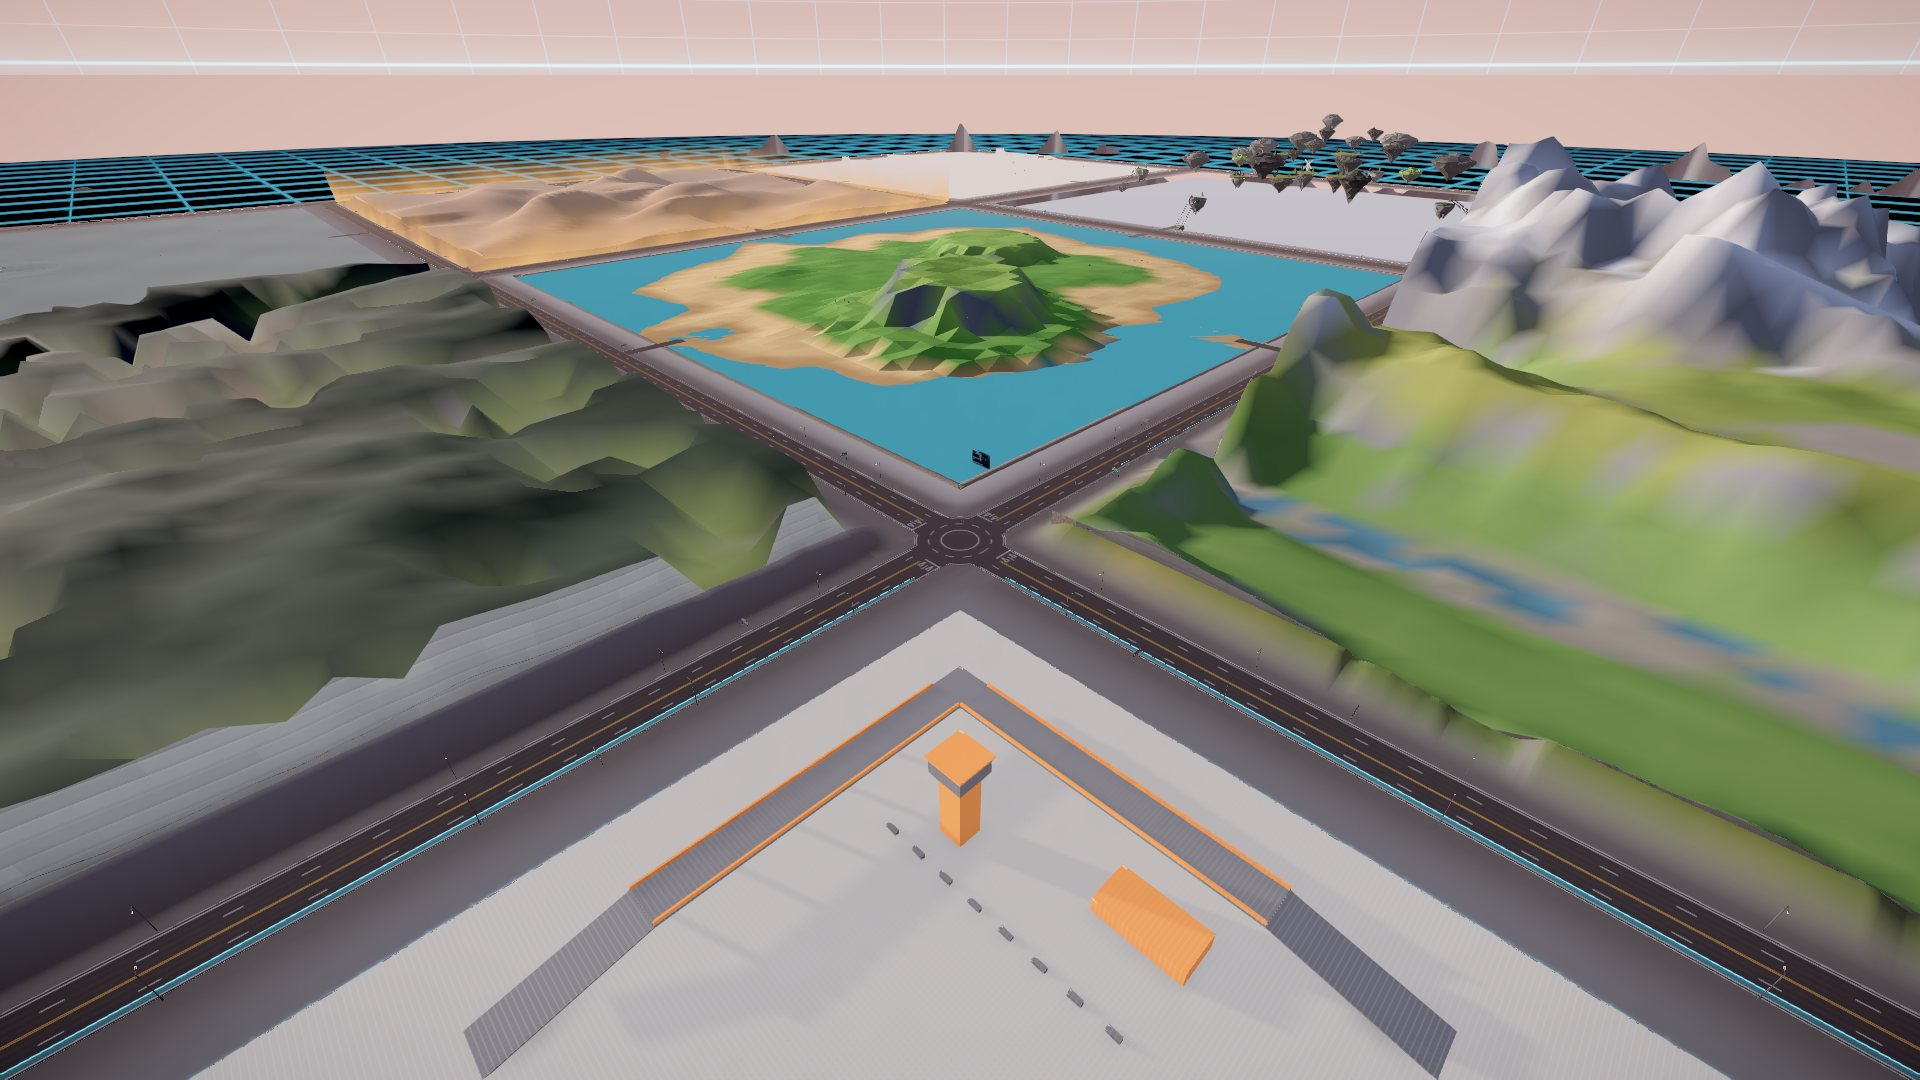
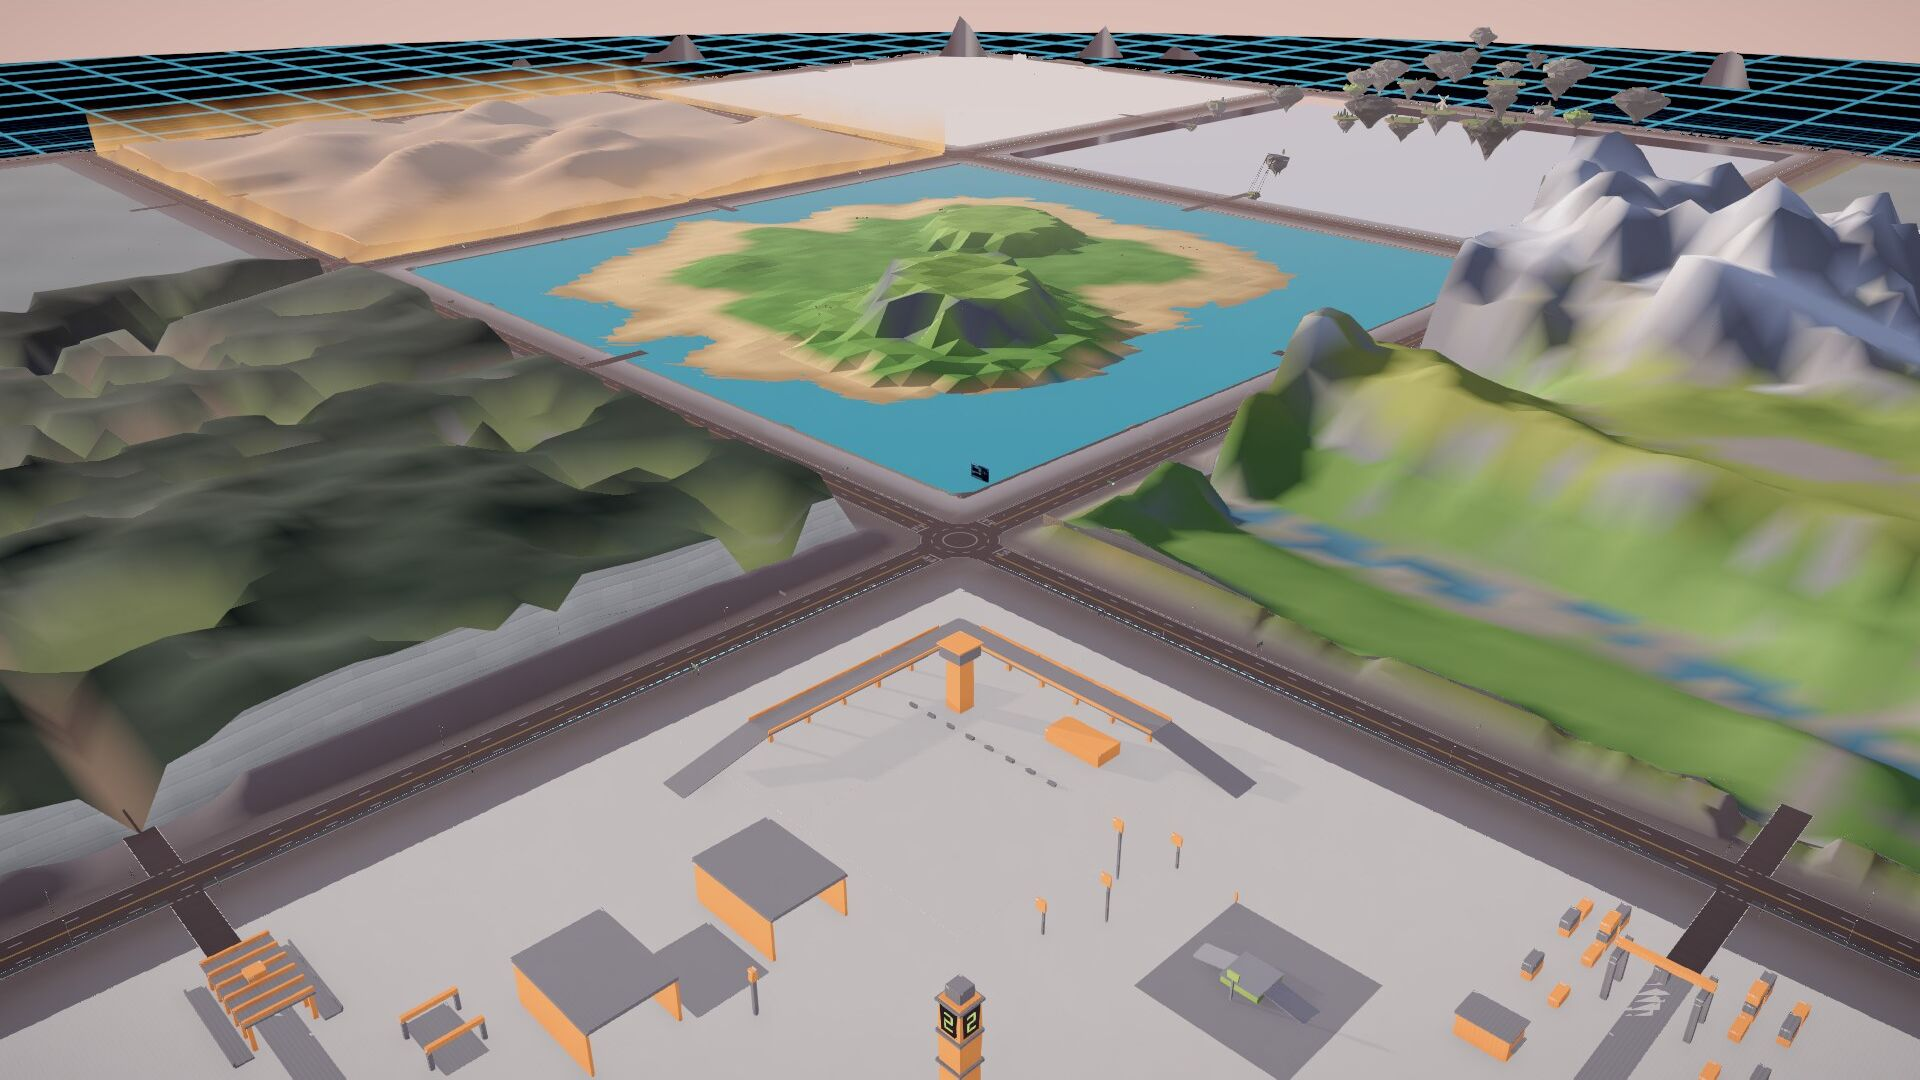
feat(menu): ship SQ-c and LS-c hero shots
Jake picked the 1x-lens interim heroes (85711a7c0, G344): SQ-c, the
square, fills the portrait centre band at the phone's full width
(cover; a short screen crops top and bottom); LS-c, its landscape
twin, replaces L-b full screen on landscape. CSS picks one image per
orientation, so a screen downloads only its own. Both are the raw
captures from art/main-menu-hero/round-3-square with the label band
cropped off (1440 x 1440, 192 KB; 1920 x 1080, 212 KB). Round 4
(G343) replaces them later.

Assisted-by: Claude Code:claude-opus-5-5

diff --git a/src/game/mainMenu.ts b/src/game/mainMenu.ts
@@ -22,9 +22,11 @@ import { WHATS_NEW, type WhatsNew } from './whatsNew';
 import { buildWhatsNewBanner, type HiddenStore } from './whatsNewBanner';
 import './mainMenu.css';
 
-/** the hero (G340 / G341): the real in-engine aerial L-b over the central roundabout (G336 round 3,
- * art/main-menu-hero/round-3-landscape); a band in the centre on portrait screens, full-bleed on landscape (mainMenu.css) */
+/** the hero (G341 layouts, G344 interim pick): real in-engine aerials over the central roundabout at a phone-1x lens
+ * (art/main-menu-hero/round-3-square): LS-c full-bleed on landscape screens, the square SQ-c as the centre band on
+ * portrait screens. mainMenu.css picks one per orientation, so a screen downloads only its own image. */
 export const MAIN_MENU_HERO = '/assets/title/main-crossroads-landscape.jpg';
+export const MAIN_MENU_SQUARE_HERO = '/assets/title/main-crossroads-square.jpg';
 
 const CARDS_ICON = '<svg viewBox="0 0 64 48" aria-hidden="true"><g fill="none" stroke="currentColor" stroke-width="2" stroke-linejoin="round"><rect x="6" y="11" width="18" height="27" rx="2" transform="rotate(-16 15 24)"/><rect x="40" y="11" width="18" height="27" rx="2" transform="rotate(16 49 24)"/><rect x="22" y="4" width="20" height="31" rx="2" fill="rgba(6,10,18,0.85)"/></g></svg>';
 const GRID_CELLS = [0, 1, 2].flatMap((r) => [0, 1, 2].map((c) => `<rect x="${17 + c * 11}" y="${6 + r * 13}" width="8" height="9" rx="1"/>`)).join('');
@@ -91,7 +93,9 @@ export function buildTitleMenu(opts: TitleMenuOptions): TitleMenu {
       </div>
       <button class="ws-main-settings" type="button">${s.settings}</button>
     </div>`;
-  required(main, '.ws-main-hero', HTMLElement).style.backgroundImage = `url('${MAIN_MENU_HERO}')`;
+  const hero = required(main, '.ws-main-hero', HTMLElement);
+  hero.style.setProperty('--ws-hero-landscape', `url('${MAIN_MENU_HERO}')`);
+  hero.style.setProperty('--ws-hero-square', `url('${MAIN_MENU_SQUARE_HERO}')`);
   if (notice !== undefined && notice !== '') {
     const line = document.createElement('div');
     line.className = 'ws-main-notice';

diff --git a/src/game/mainMenu.css b/src/game/mainMenu.css
@@ -17,13 +17,14 @@
 .ws-main .ws-main-foot { display: flex; flex-direction: column; align-items: center; gap: 22px; padding: 0 16px calc(env(safe-area-inset-bottom, 0px) + 40px); }
 /* G341 (Jake's pick of G338): a portrait screen shows the landscape hero as a band across the middle on the plain menu
    background, the logo and WHAT'S NEW above it, the cards and SETTINGS below it, no scrim over the image; the band takes the
-   room between them and shows the whole 16:9 image (contain). A landscape screen keeps the full-bleed hero with the cards over it. */
-.ws-main .ws-main-hero { background-position: 50% 50%; }
+   room between them. A landscape screen keeps the full-bleed hero with the cards over it. */
+.ws-main .ws-main-hero { background-position: 50% 50%; background-image: var(--ws-hero-landscape); }
 @media (orientation: portrait) {
   .ws-main { background: #0b1622; }
   .ws-main::before { display: none; }
   .ws-main .ws-main-head { order: 0; flex: none; }
-  .ws-main .ws-main-hero { order: 1; position: relative; inset: auto; flex: 1 1 auto; min-height: 0; margin: 18px 0; background-size: contain; background-repeat: no-repeat; }
+  /* G344: the square hero fills the phone's width; on a short screen the band gives up height (cover crops top and bottom) */
+  .ws-main .ws-main-hero { order: 1; position: relative; inset: auto; flex: 0 1 auto; align-self: stretch; width: 100%; aspect-ratio: 1 / 1; min-height: 0; margin: 18px 0; background-image: var(--ws-hero-square); background-size: cover; background-repeat: no-repeat; }
   .ws-main .ws-main-foot { order: 2; flex: none; padding-top: 0; }
 }
 .ws-main .ws-main-cards { display: flex; gap: 12px; width: min(560px, 100%); }

diff --git a/test/grid-menu.test.ts b/test/grid-menu.test.ts
@@ -14,7 +14,7 @@ import { levelDebugRows } from '../src/engine/ui/debugOptions';
 import { ordinaryShardManifests } from '../src/game/shard/legacy';
 import { shards } from '../src/game/shard/list';
 import { buildTitleDeck, titleCards } from '../src/game/titleDeck';
-import { buildTitleMenu, MAIN_MENU_HERO } from '../src/game/mainMenu';
+import { buildTitleMenu, MAIN_MENU_HERO, MAIN_MENU_SQUARE_HERO } from '../src/game/mainMenu';
 
 class MemoryStorage {
   private data = new Map<string, string>();
@@ -127,11 +127,13 @@ describe('the main menu (G79 / G88)', () => {
       menu.dispose(); menu.root.remove();
     });
   }
-  it('G341 hero: the real L-b capture, one image for both orientations (the layout follows the screen in CSS)', () => {
+  it('G344 hero: LS-c landscape and SQ-c square, each handed to CSS for its orientation', () => {
     const menu = buildTitleMenu({ cards: titleCards(), active: null, onEnter: noop, onExplore: noop, onSettings: noop, onGrid: noop, screen: 'main' });
     const hero = menu.root.querySelector<HTMLElement>('.ws-main-hero');
     expect(MAIN_MENU_HERO).toBe('/assets/title/main-crossroads-landscape.jpg');
-    expect(hero?.style.backgroundImage).toContain(MAIN_MENU_HERO);
+    expect(MAIN_MENU_SQUARE_HERO).toBe('/assets/title/main-crossroads-square.jpg');
+    expect(hero?.style.getPropertyValue('--ws-hero-landscape')).toContain(MAIN_MENU_HERO);
+    expect(hero?.style.getPropertyValue('--ws-hero-square')).toContain(MAIN_MENU_SQUARE_HERO);
     menu.dispose();
   });
   it('SHARD SELECT opens today\'s deck, unchanged; MAIN MENU comes back; a rebuild keeps the screen', () => {
